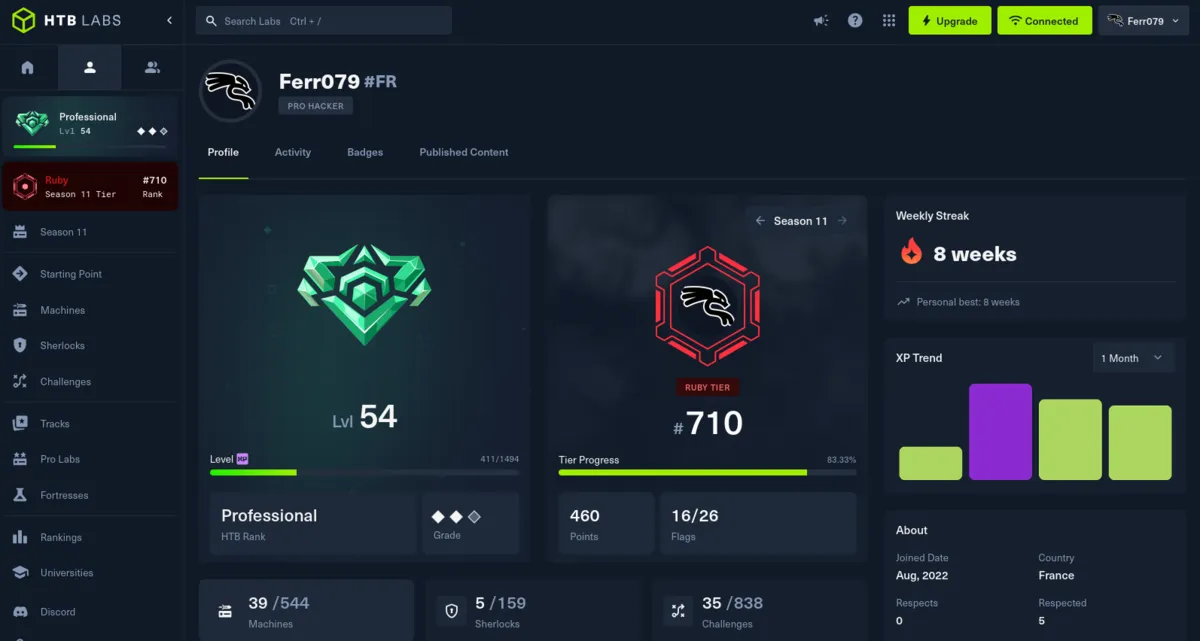
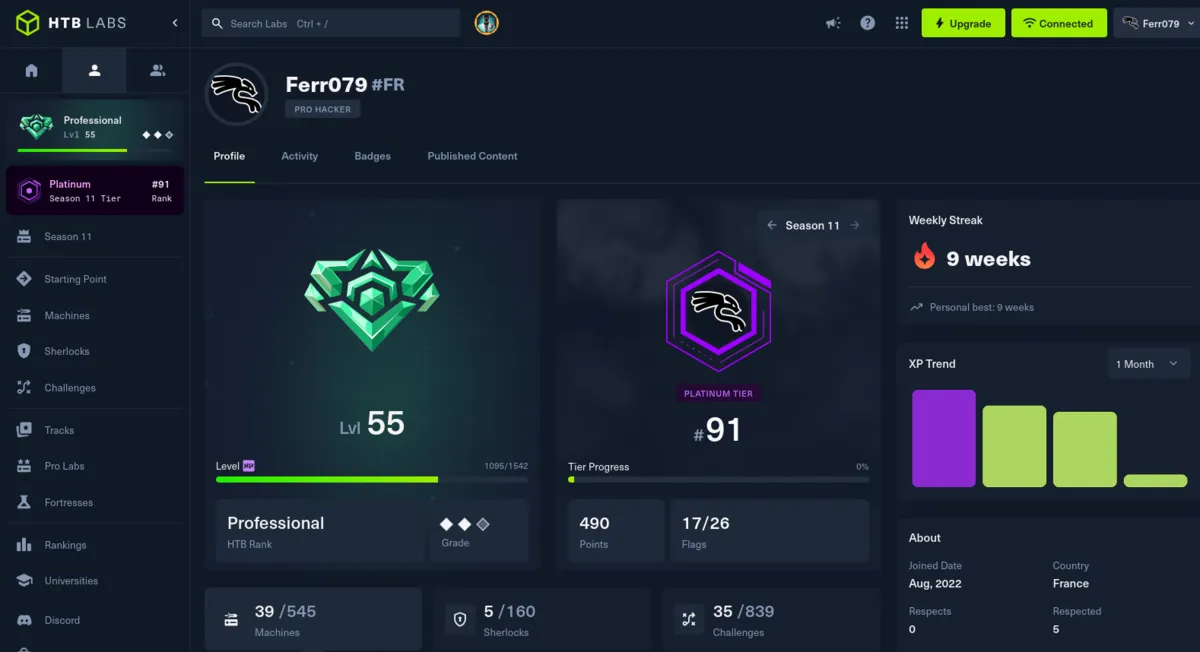
ctf: refresh HTB brick + dashboard screenshot (Lvl 55, Platinum #91, 82 flags)
- fallbacks aligned on live KV: #780 global, 39 system + 43 user owns, 82 flags
- new htb-dashboard.webp (Pro Hacker, Lvl 55, Season 11 Platinum #91, 9-week streak), ?v=20260718
- build-stats FALLBACK snapshot bumped to 2026-07-18

diff --git a/src/lib/build-stats.ts b/src/lib/build-stats.ts
@@ -15,7 +15,7 @@
  * snapshot so a build never ships empty numbers.
  */
 
-// Last-known snapshot (2026-06-27). Only used if the build can't reach /api/stats.
+// Last-known snapshot (2026-07-18). Only used if the build can't reach /api/stats.
 const FALLBACK: Record<string, string | number> = {
   claude_hours: 1432,
   claude_cache_hit: 97.3,
@@ -26,11 +26,11 @@ const FALLBACK: Record<string, string | number> = {
   uptime_pct: 100,
   forgejo_commits_30d: 1257,
   proxmox_nodes: 4,
-  htb_flags: 81,
+  htb_flags: 82,
   htb_rank: 'Pro Hacker',
-  htb_ranking: 819,
+  htb_ranking: 780,
   htb_system_owns: 39,
-  htb_user_owns: 42,
+  htb_user_owns: 43,
   rootme_score: 1005,
   rootme_validations: 73,
   rootme_position: 16420,

diff --git a/CLAUDE.md b/CLAUDE.md
@@ -129,7 +129,7 @@ git push origin main && git push forgejo main   # remote SSH (forgejo-ssh), plus
 
 | Platform | Username | Current stats |
 |---|---|---|
-| Hack The Box | Ferr079 | Pro Hacker rank, #819, 39 system + 42 user owns, 81 flags (fallback ctf.astro ; live au build via `/profile/basic`, mais le fetch CI tombe souvent en repli — cf [[reference_ctf_htb_stats_freshness]], garder ce fallback à jour à la main). Lvl 54 « Professional » · Season 11 Ruby tier #710 · streak 8 sem. (screenshot `htb-dashboard.webp` MAJ 2026-07-13 = Pro Hacker/Lvl 54/#710/8-week ; `?v=20260713`). ⚠️ `/profile/activity` **supprimé par HTB 2026** (HTTP 400) → `flags = user_owns + system_owns`, ne PAS ré-ajouter d'appel activity. NB : `ranking` = rang **global** HTB (≠ `#336` = rang de saison du screenshot) |
+| Hack The Box | Ferr079 | Pro Hacker rank, #780, 39 system + 43 user owns, 82 flags (fallback ctf.astro aligné sur le KV `/api/stats` — cf [[reference_ctf_htb_stats_freshness]], garder ce fallback à jour à la main). Lvl 55 « Professional » · Season 11 Platinum tier #91 · streak 9 sem. (screenshot `htb-dashboard.webp` MAJ 2026-07-18 = Pro Hacker/Lvl 55/Platinum #91/9-week ; `?v=20260718`). ⚠️ `/profile/activity` **supprimé par HTB 2026** (HTTP 400) → `flags = user_owns + system_owns`, ne PAS ré-ajouter d'appel activity. NB : `ranking` = rang **global** HTB (≠ `#91` = rang de saison du screenshot) |
 | TryHackMe | ferr0 | Top 15%, 35 rooms, 7 badges |
 | Root-Me | Ferr0 | 1005 pts, 73 challenges (fallback ctf.astro ; live au build, même repli intermittent que HTB) |
 | GitHub | ferr079 | github.com/ferr079 |